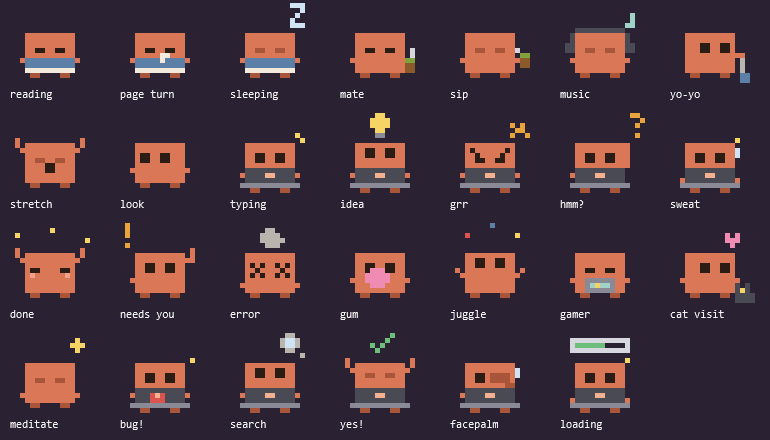
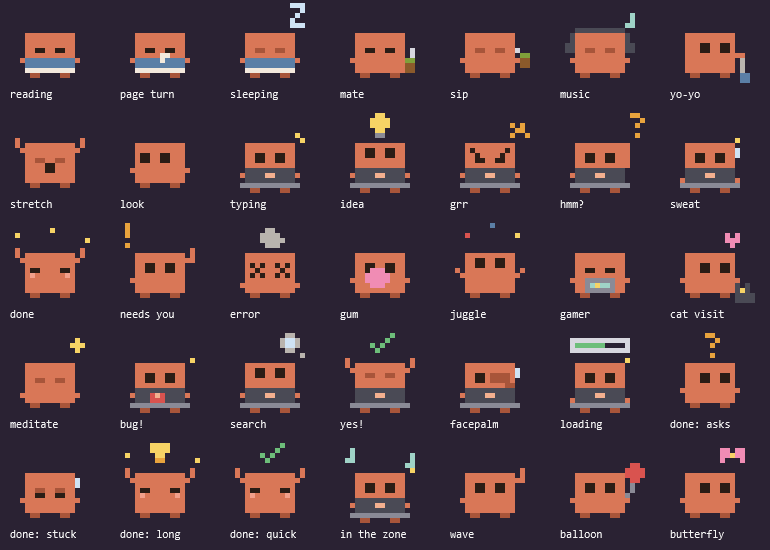
feat: celebrate by answer, add four scenes, remember position and sweep stale sessions
The done animation follows the answer: question mark when it ends asking, worried face when it could not finish, trophy after 10+ minutes, quick check under 15 seconds. New scenes: wave, balloon, butterfly and in the zone. The avatar remembers its position and mute, fades the bubble in, shows elapsed time in the hover list and drops sessions silent for 24 hours.

diff --git a/README.md b/README.md
@@ -6,18 +6,18 @@ A tiny pixel companion for Claude Code on Windows. It sits in the bottom-right c
 
 | State | When | What it does |
 |---|---|---|
-| Idle | No session needs you | Reads a book, blinks and turns pages. Every 20-45 s it does something at random: drinks mate, listens to music, plays with a yo-yo, stretches, looks around, blows bubble gum, juggles, plays a handheld console, gets a visit from a cat, dances or meditates. After 10 idle minutes it falls asleep |
-| Working | You sent a prompt | Types on a laptop with the running tool floating over its head: a pencil for edits, a terminal for shell commands, a magnifier for reads and searches, a globe for web requests. Every 6-15 s it has an idea (light bulb), grumbles, scratches its head, sweats, types at full speed, looks up thinking, squashes a bug crawling on the laptop, searches with a magnifier, celebrates, facepalms, watches a loading bar or takes a mate break |
+| Idle | No session needs you | Reads a book, blinks and turns pages. Every 20-45 s it does something at random: drinks mate, listens to music, plays with a yo-yo, stretches, looks around, blows bubble gum, juggles, plays a handheld console, gets a visit from a cat, dances, meditates, waves, holds a balloon or watches a butterfly. After 10 idle minutes it falls asleep |
+| Working | You sent a prompt | Types on a laptop with the running tool floating over its head: a pencil for edits, a terminal for shell commands, a magnifier for reads and searches, a globe for web requests. Every 6-15 s it has an idea (light bulb), grumbles, scratches its head, sweats, types at full speed, looks up thinking, squashes a bug crawling on the laptop, searches with a magnifier, celebrates, facepalms, watches a loading bar, takes a mate break or gets in the zone with music |
 | Compacting | The conversation is being compacted | Squashes a stack of papers on its head |
-| Done | Claude finished its turn | Jumps with confetti, shows a green bubble with how long the turn took and the first line of the answer, chimes |
+| Done | Claude finished its turn | Jumps with confetti, shows a green bubble with how long the turn took and the first line of the answer, chimes. The celebration follows the answer: a question mark when it ends asking you something, a worried face when it says it could not finish, a trophy after a turn of 10 minutes or more, a small hop with a check mark under 15 seconds |
 | Needs you | Permission or input required | Waves under a blinking "!", shows an amber bubble, chimes |
 | Error | The turn failed (rate limit, API error...) | Shakes with X eyes and smoke, red bubble, alert sound |
 
 - **Left click**: dismiss the bubble and jump to the terminal window of that session.
-- **Drag**: move it. It keeps its bottom-right corner when the bubble appears.
-- **Right click**: mute sounds or quit.
+- **Drag**: move it. It keeps its bottom-right corner when the bubble appears, and remembers where you left it.
+- **Right click**: mute sounds or quit. Mute is remembered too.
 - **Double click**: pet it. It hops with hearts.
-- **Hover**: list of active sessions, their state and running subagents.
+- **Hover**: list of active sessions, their state, how long a working one has been running and its subagents.
 
 Every running subagent shows up as a mini Clawd hopping around it (up to three). On special dates a prop stands at its feet, and the hover list names the day:
 
@@ -78,7 +78,8 @@ Removes only the `clawd-buddy` hooks and stops the avatar.
 - `avatar.ps1` is a transparent WPF window that polls those files and animates the sprite.
 - `PermissionRequest` signals "needs you" immediately; `Notification` is only a fallback because it arrives late and repeats idle reminders.
 - No hook fires when you grant a permission, so the avatar treats new transcript output as "working again".
-- A closed terminal sends no `SessionEnd`, so a working session with no activity for 15 minutes goes back to idle.
+- A closed terminal sends no `SessionEnd`, so a working session with no activity for 15 minutes goes back to idle, and a session silent for 24 hours is dropped from the list.
+- Position and mute live in `%LOCALAPPDATA%\clawd-buddy\avatar.json`. A saved position that falls outside the current screens is ignored.
 - `PreToolUse` starts one PowerShell process per tool call. It is async, so Claude Code never waits for it, but it costs a little CPU on busy sessions. To drop the tool icons, remove the `clawd-buddy` entry under `PreToolUse` in `settings.json`.
 - Tool, subagent and compaction activity go to side files next to the session file (`<id>.tool`, `<id>.agents\`, `<id>.compact`). Those hooks run in parallel, so sharing the main file would lose updates. Subagent marks expire after 30 minutes in case a `SubagentStop` never arrives.
 
